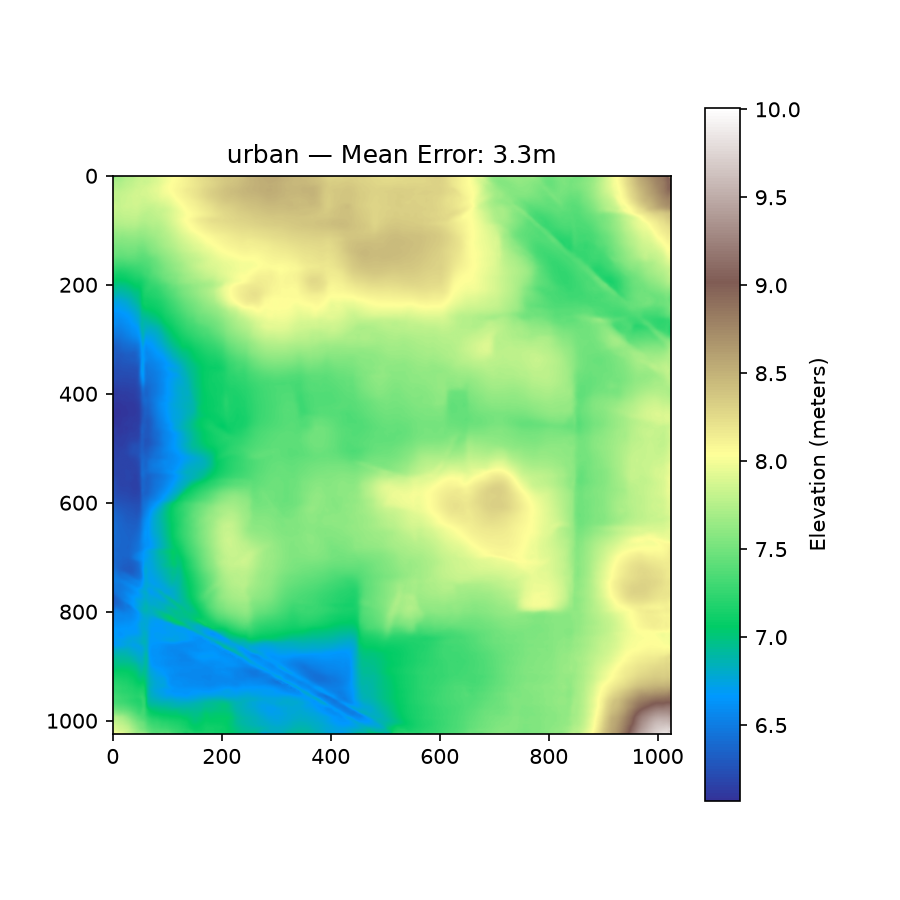
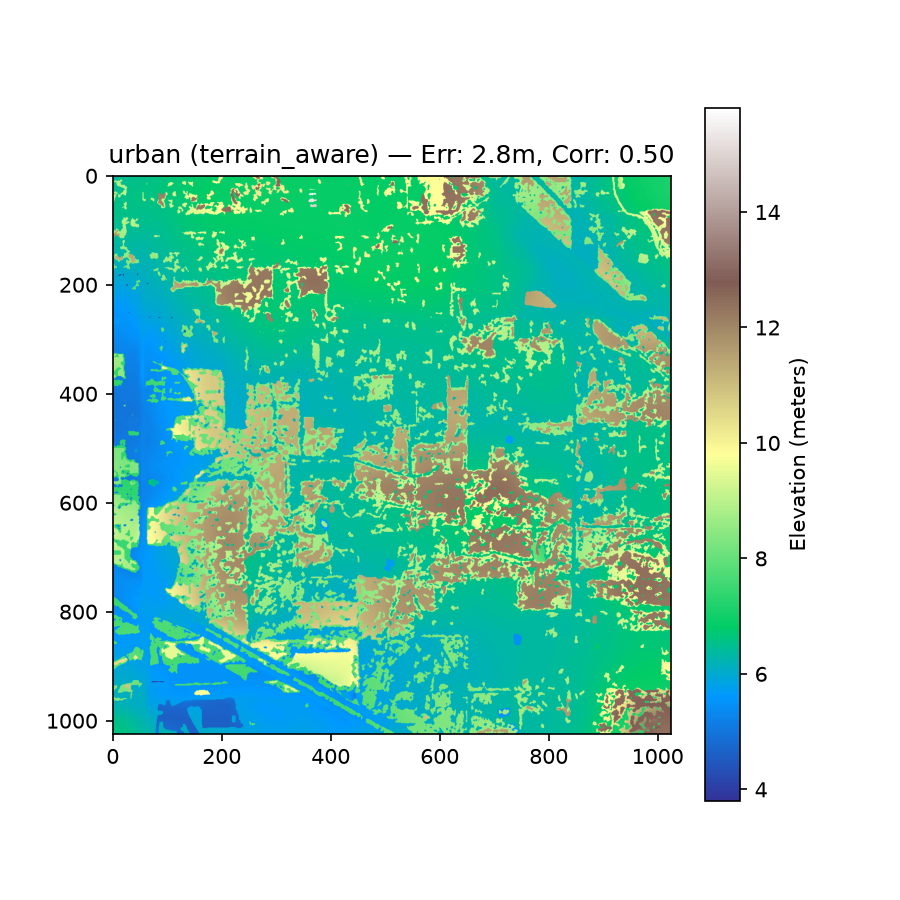
Update person2 elevation pipeline

diff --git a/person2_elevation/elevation_pipeline.py b/person2_elevation/elevation_pipeline.py
@@ -1,5 +1,6 @@
 import numpy as np
 import rasterio
+from scipy.ndimage import median_filter
 
 CLASS_NAMES = {
     0: "urban",
@@ -44,6 +45,27 @@ def detect_edge_artifacts(elevation, border=5):
     return artifact_mask
 
 
+def remove_elevation_spikes(elevation, window_size=5, threshold=15):
+    """
+    Detects isolated pixels that are far higher/lower than their local
+    neighborhood (single-pixel noise spikes, common on low-texture terrain
+    where depth models produce unreliable outliers) and replaces them with
+    the local median instead. Real terrain features (supported by many
+    neighboring pixels agreeing) are left untouched.
+    """
+    local_median = median_filter(elevation, size=window_size)
+    deviation = np.abs(elevation - local_median)
+
+    spike_mask = deviation > threshold
+    n_spikes = int(spike_mask.sum())
+    if n_spikes > 0:
+        print(f"Spikes detected and smoothed: {n_spikes} pixels ({100*n_spikes/elevation.size:.2f}%)")
+
+    cleaned = elevation.copy()
+    cleaned[spike_mask] = local_median[spike_mask]
+    return cleaned, n_spikes
+
+
 def _resample_to_match(reference_elevation, void_mask, target_shape):
     from scipy.ndimage import zoom
     zoom_factors = (target_shape[0] / reference_elevation.shape[0],
@@ -69,7 +91,27 @@ def global_calibration(depth, reference_elevation, void_mask):
     return calibrated, {"global": (a, b, int(valid.sum()))}
 
 
-def terrain_aware_calibration(depth, reference_elevation, void_mask, terrain_mask, min_pixels=500):
+def terrain_aware_calibration(depth, reference_elevation, void_mask, terrain_mask, min_pixels=500, degree=2):
+    """SRTM + terrain mask available — separate polynomial fit per terrain class.
+    degree=2 chosen based on GAMUS validation: terrain-wise polynomial matched
+    or beat plain linear and Huber robust regression in every terrain class
+    tested, with the clearest gains on water and low-vegetation classes."""
+    calibrated = np.zeros_like(depth)
+    valid = ~void_mask
+    coeffs_global = np.polyfit(depth[valid].flatten(), reference_elevation[valid].flatten(), degree)
+
+    fit_report = {}
+    for cls in np.unique(terrain_mask):
+        class_pixels = (terrain_mask == cls) & valid
+        n_pixels = int(class_pixels.sum())
+        if n_pixels < min_pixels:
+            coeffs = coeffs_global
+        else:
+            coeffs = np.polyfit(depth[class_pixels].flatten(), reference_elevation[class_pixels].flatten(), degree)
+        fit_report[int(cls)] = (tuple(coeffs), n_pixels)
+        calibrated[terrain_mask == cls] = np.polyval(coeffs, depth[terrain_mask == cls])
+
+    return calibrated, fit_report
     """SRTM + terrain mask available — separate fit per terrain class."""
     calibrated = np.zeros_like(depth)
     valid = ~void_mask
@@ -89,19 +131,23 @@ def terrain_aware_calibration(depth, reference_elevation, void_mask, terrain_mas
     return calibrated, fit_report
 
 
-def generate_elevation(depth, srtm_path=None, terrain_mask=None):
+def generate_elevation(depth, srtm_path=None, terrain_mask=None, despike=True, spike_threshold=15):
     """
     Main entry point. Takes already-loaded depth array, an optional path
     to SRTM ground truth, and an optional already-loaded terrain mask.
     Automatically picks relative / global / terrain-aware calibration.
     Automatically excludes detected edge artifacts from error reporting.
+    Automatically removes isolated elevation spikes (despike=True by default).
     """
     metadata = {"error_mean": None, "error_max": None, "correlation": None,
-                "fit_report": None, "mode": None, "artifact_pixels": 0}
+                "fit_report": None, "mode": None, "artifact_pixels": 0, "spike_pixels": 0}
 
     if srtm_path is None:
         metadata["mode"] = "relative"
         elevation = relative_elevation(depth)
+        if despike:
+            elevation, n_spikes = remove_elevation_spikes(elevation, threshold=spike_threshold)
+            metadata["spike_pixels"] = n_spikes
         return elevation, metadata
 
     reference_elevation, void_mask = load_elevation_any(srtm_path)
@@ -122,6 +168,10 @@ def generate_elevation(depth, srtm_path=None, terrain_mask=None):
     else:
         metadata["mode"] = "global"
         elevation, fit_report = global_calibration(depth, reference_elevation, exclude_mask)
+
+    if despike:
+        elevation, n_spikes = remove_elevation_spikes(elevation, threshold=spike_threshold)
+        metadata["spike_pixels"] = n_spikes
 
     valid = ~exclude_mask
     error = np.abs(elevation[valid] - reference_elevation[valid])

diff --git a/person2_elevation/run_test.py b/person2_elevation/run_test.py
@@ -4,10 +4,10 @@ from depth_loader import load_and_validate_depth
 from elevation_pipeline import generate_elevation, CLASS_NAMES
 
 # ---- ONLY place filenames should ever appear ----
-DEPTH_PATH = "person2_elevation/vegetation_1_depth.npy"
-SRTM_PATH = "person2_elevation/srtm_vegetation_aligned.tif"
-TERRAIN_MASK_PATH = "person2_elevation/terrain_mask.npy"
-OUTPUT_NAME = "vegetation"
+DEPTH_PATH = "person2_elevation/urban_1_depth.npy"
+SRTM_PATH = "person2_elevation/srtm_urban_aligned.tif"
+TERRAIN_MASK_PATH = "person2_elevation/urban_1_terrain_mask.npy"
+OUTPUT_NAME = "urban"
 # --------------------------------------------------
 
 depth = load_and_validate_depth(DEPTH_PATH)
@@ -22,9 +22,10 @@ if meta["mode"] != "relative":
     print(f"Max absolute error: {meta['error_max']:.2f} meters")
     print(f"Correlation: {meta['correlation']:.3f}")
     print("Per-class fit report:")
-    for cls, (a, b, n) in meta["fit_report"].items():
-        name = CLASS_NAMES.get(cls, cls) if isinstance(cls, int) else cls
-        print(f"  {name}: a={a:.2f}, b={b:.2f}, pixels={n}")
+    for cls, (coeffs, n) in meta["fit_report"].items():
+        name = CLASS_NAMES.get(int(cls), cls)
+        coeffs_str = ", ".join(f"{c:.3f}" for c in coeffs)
+        print(f"  {name}: coeffs=[{coeffs_str}], pixels={n}")
 
 np.save(f"person2_elevation/final_elevation_{OUTPUT_NAME}.npy", elevation)
 
